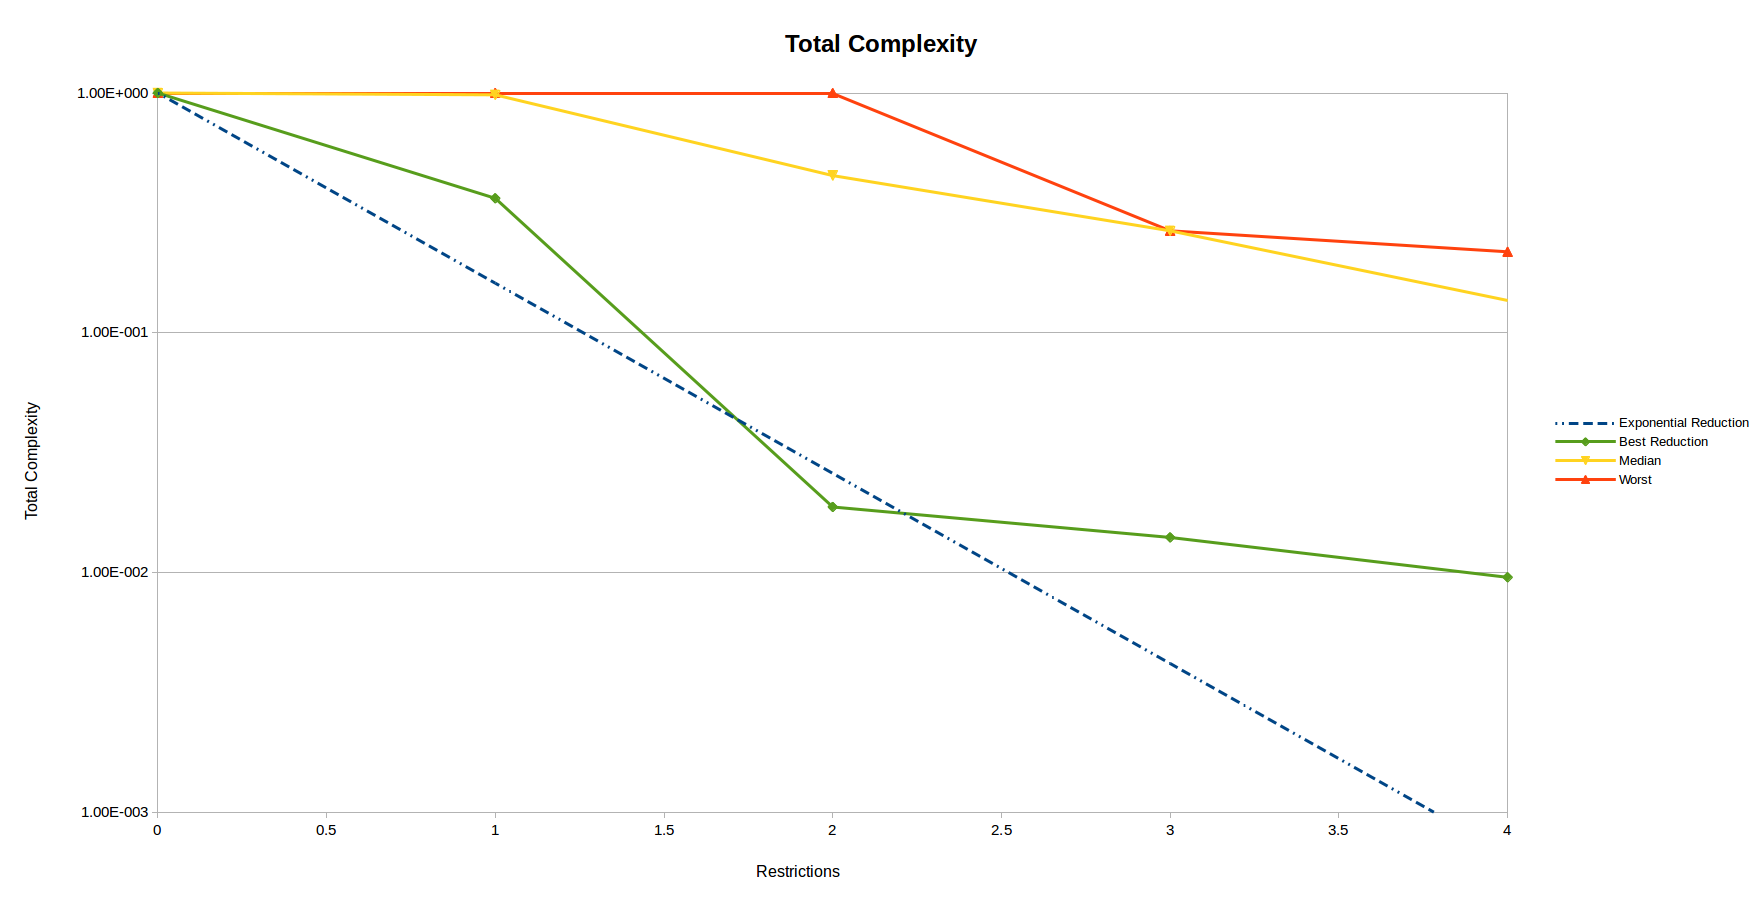
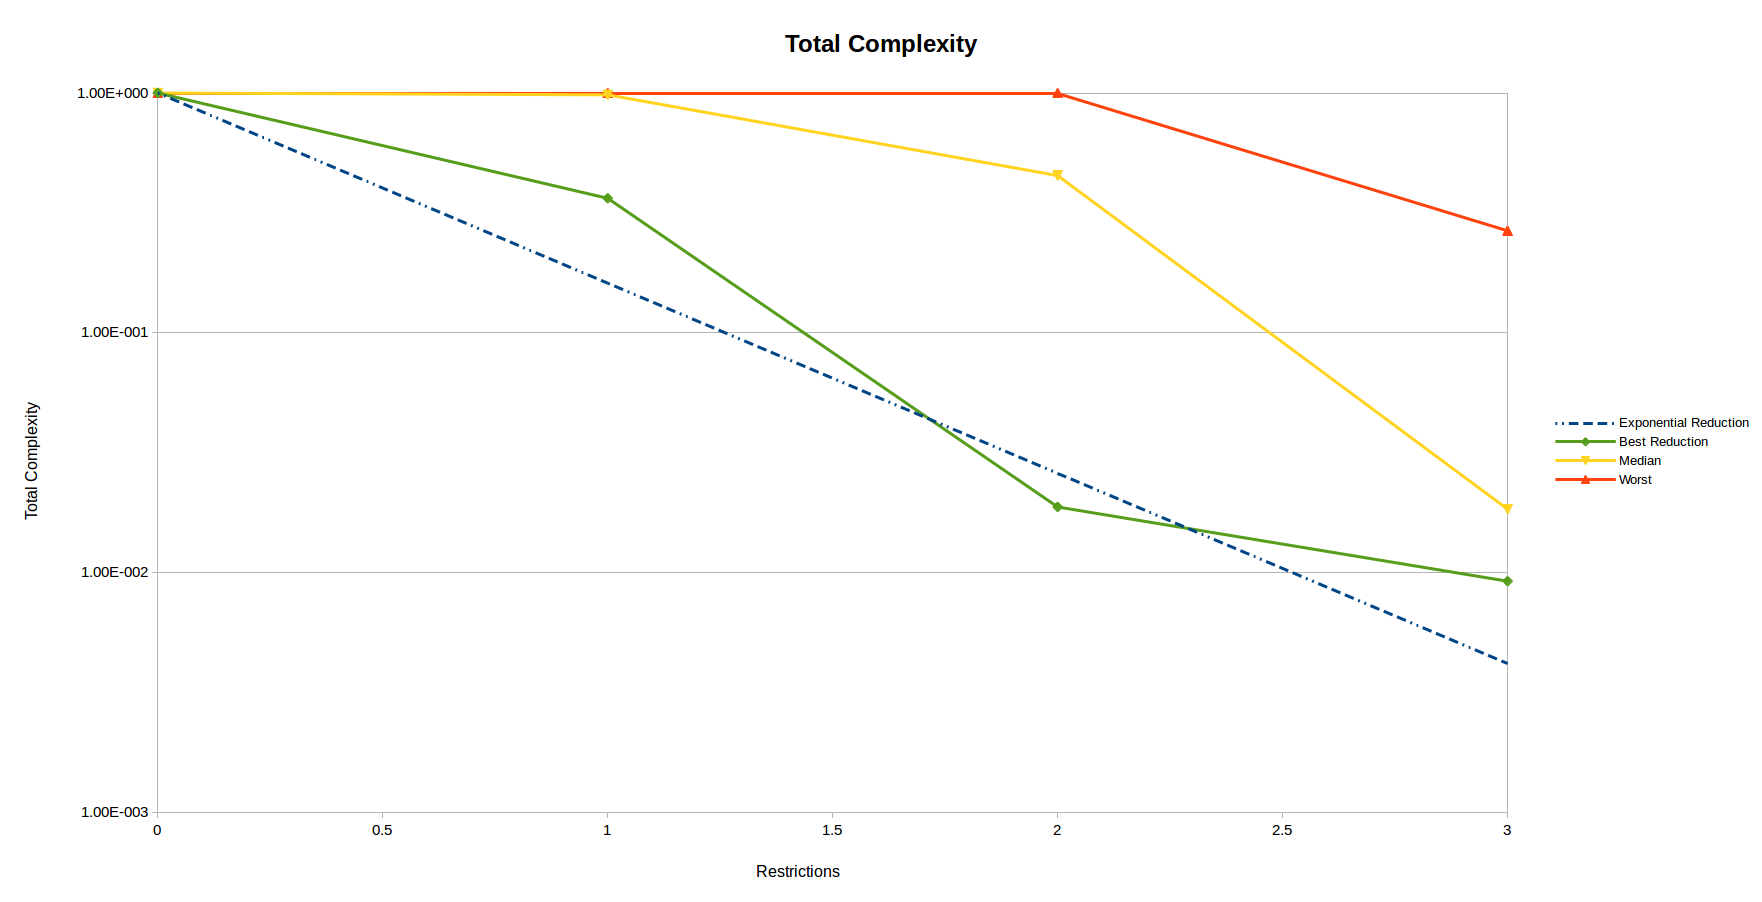
Updated the overview over the results

diff --git a/results/Overview.md b/results/Overview.md
@@ -61,8 +61,7 @@ Results better than the exponential reduction are marked in bold.
 |       0      | 1.00×10⁰              | 1.00×10⁰       | [Initial Situation](000/000.md) |
 |       1      | 1.61×10⁻¹             | 3.64×10⁻¹      | [F032](001/f032.md) |
 |       2      | 2.59×10⁻²             | **1.87×10⁻²**  | [F031-F032](002/f031_f032.md) |
-|       3      | 4.17×10⁻³             | 1.40×10⁻²      | [T029-F031-F032](003/t029_f031_f032.md) |
-|       4      | 6.71×10⁻⁴             | 9.54×10⁻³      | [F029-F030-F031-F032](004/f029_f030_f031_f032.md) |
+|       3      | 4.17×10⁻³             | 9.19×10⁻³      | [T024-F031-F032](003/t024_f031_f032.md) |
 
 ![Total Complexity](Total_Complexity.png "Total Complexity")
 
